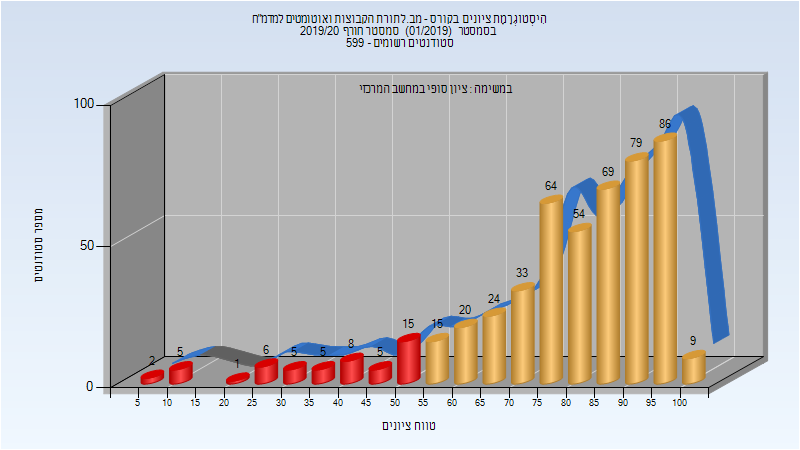
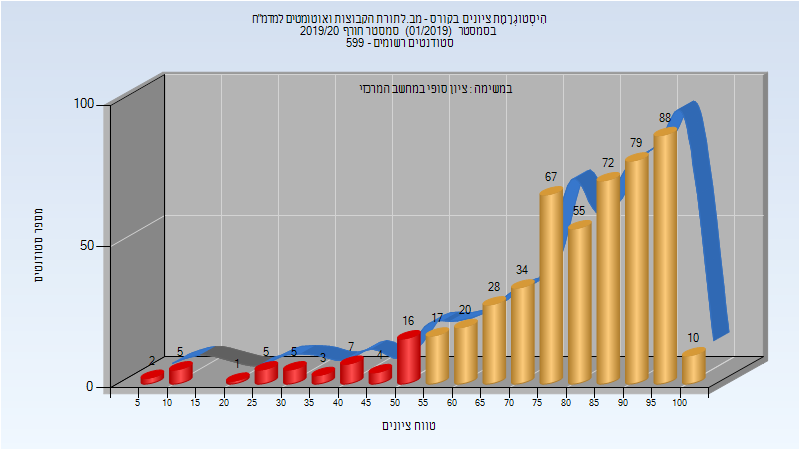
Deploy michael-maltsev/technion-histograms to github.com/michael-maltsev/technion-histograms.git:gh-pages

diff --git a/044105/index.html b/044105/index.html
@@ -2100,13 +2100,13 @@
 </thead>
 <tbody>
 <tr>
-<td>147</td>
-<td>113/34</td>
-<td>77</td>
-<td>29</td>
+<td>169</td>
+<td>134/35</td>
+<td>79</td>
+<td>21</td>
 <td>100</td>
-<td>71.02</td>
-<td>73</td>
+<td>74.402</td>
+<td>79</td>
 </tr>
 </tbody>
 </table>

diff --git a/234129/index.html b/234129/index.html
@@ -134,12 +134,12 @@
 </thead>
 <tbody>
 <tr>
-<td>507</td>
-<td>455/52</td>
-<td>90</td>
+<td>520</td>
+<td>472/48</td>
+<td>91</td>
 <td>6</td>
 <td>100</td>
-<td>79.133</td>
+<td>79.448</td>
 <td>84</td>
 </tr>
 </tbody>

diff --git a/234129/README.md b/234129/README.md
@@ -40,7 +40,7 @@
 
 | סטודנטים | עברו/נכשלו | אחוז עוברים | ציון מינימלי | ציון מקסימלי | ממוצע | חציון |
 | ---- | ---- | ---- | ---- | ---- | ---- | ---- |
-| 507 | 455/52 | 90 | 6 | 100 | 79.133 | 84 |
+| 520 | 472/48 | 91 | 6 | 100 | 79.448 | 84 |
 
 ## אביב 2020
 

diff --git a/044105/README.md b/044105/README.md
@@ -653,5 +653,5 @@
 
 | סטודנטים | עברו/נכשלו | אחוז עוברים | ציון מינימלי | ציון מקסימלי | ממוצע | חציון |
 | ---- | ---- | ---- | ---- | ---- | ---- | ---- |
-| 147 | 113/34 | 77 | 29 | 100 | 71.02 | 73 |
+| 169 | 134/35 | 79 | 21 | 100 | 74.402 | 79 |
 
